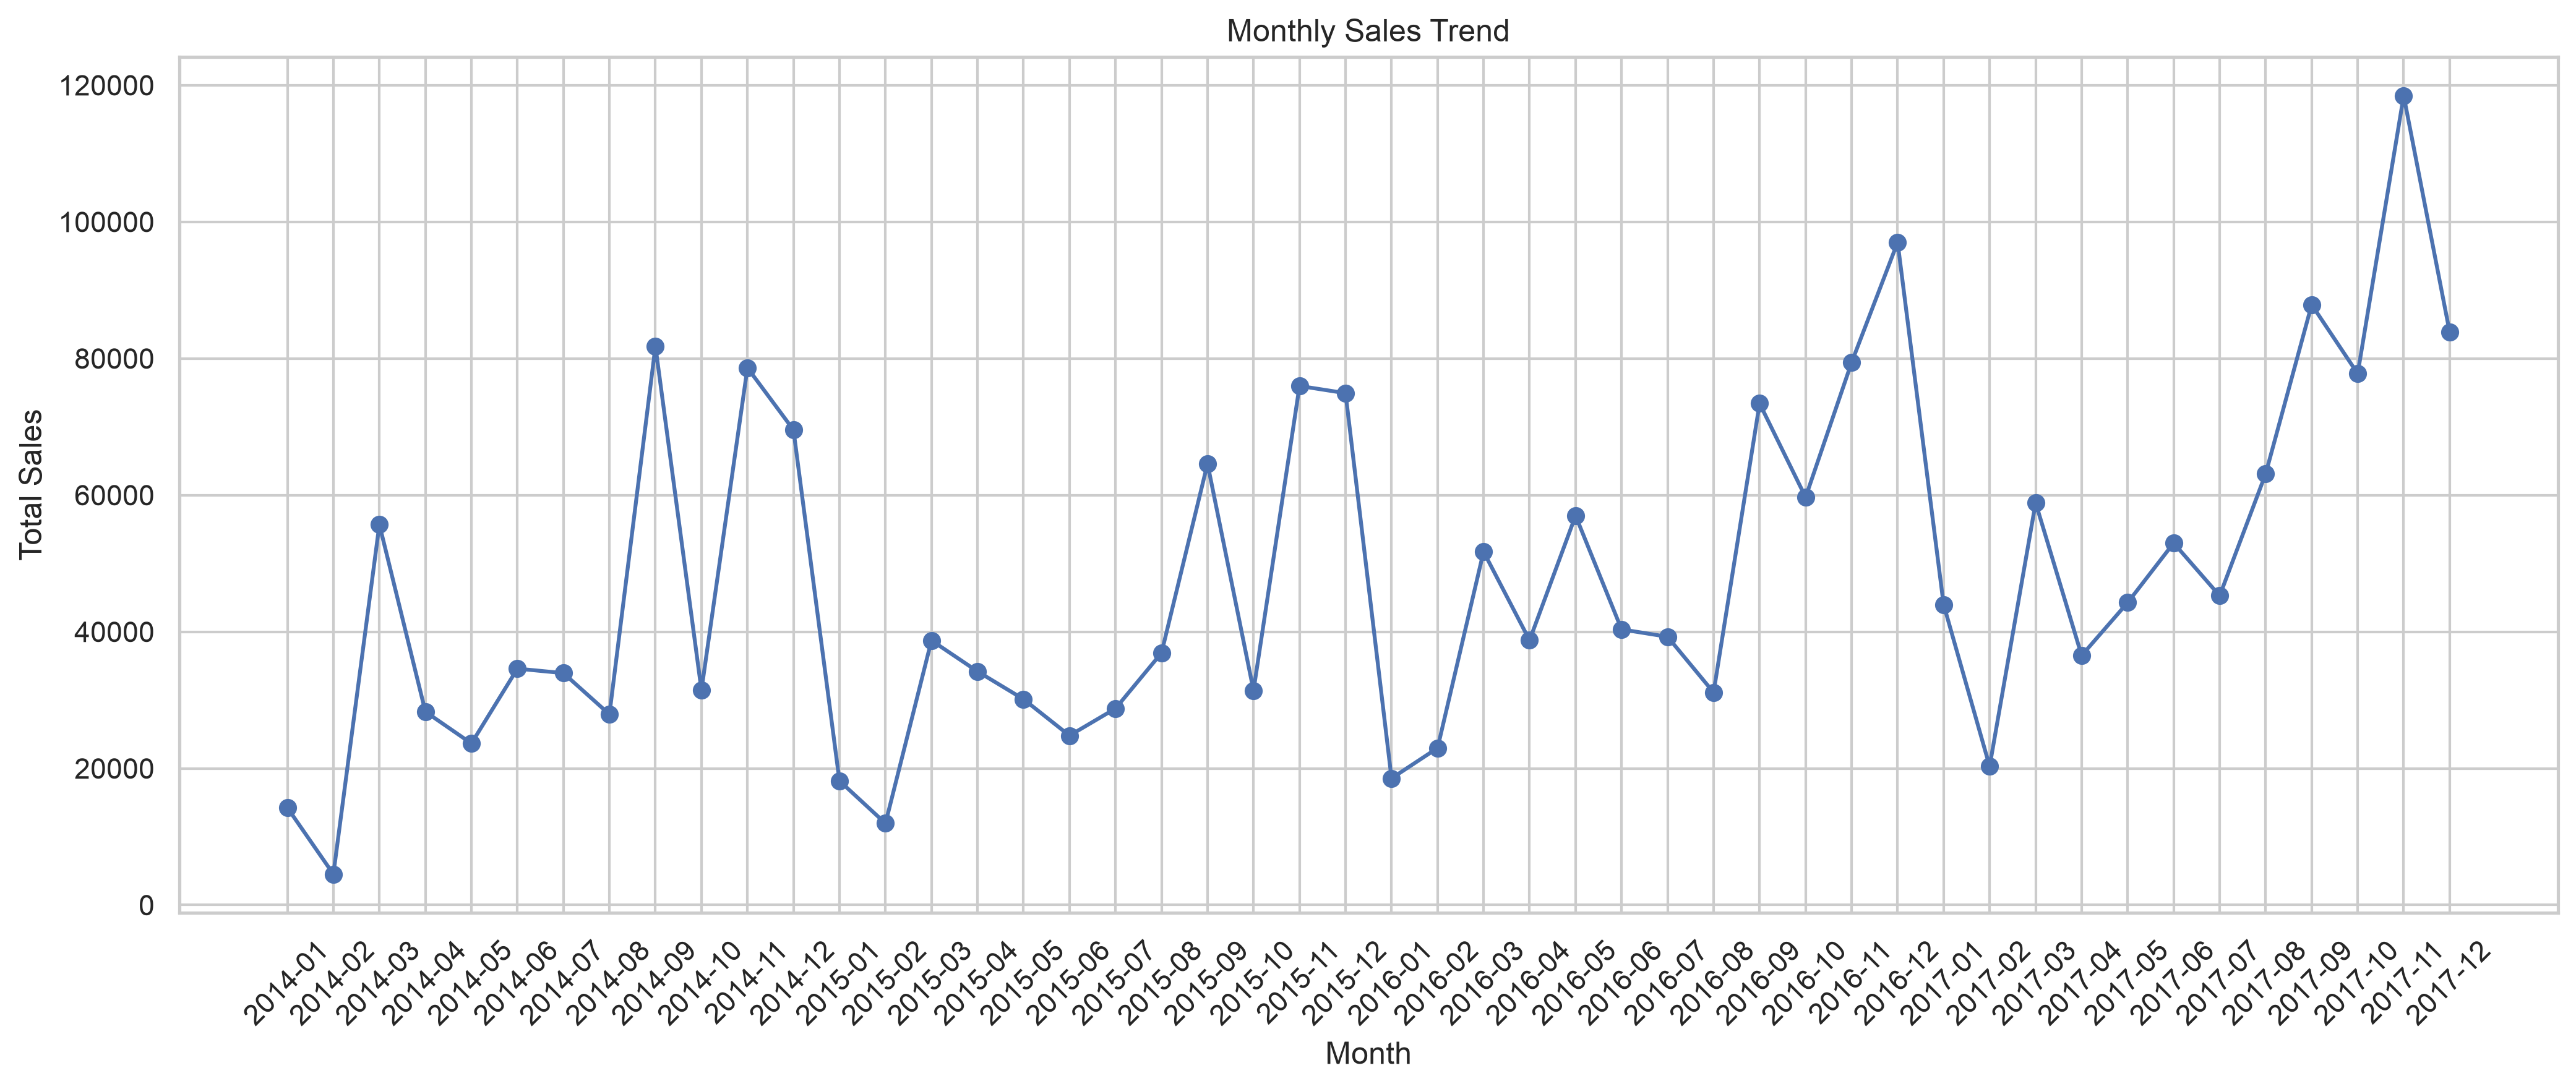
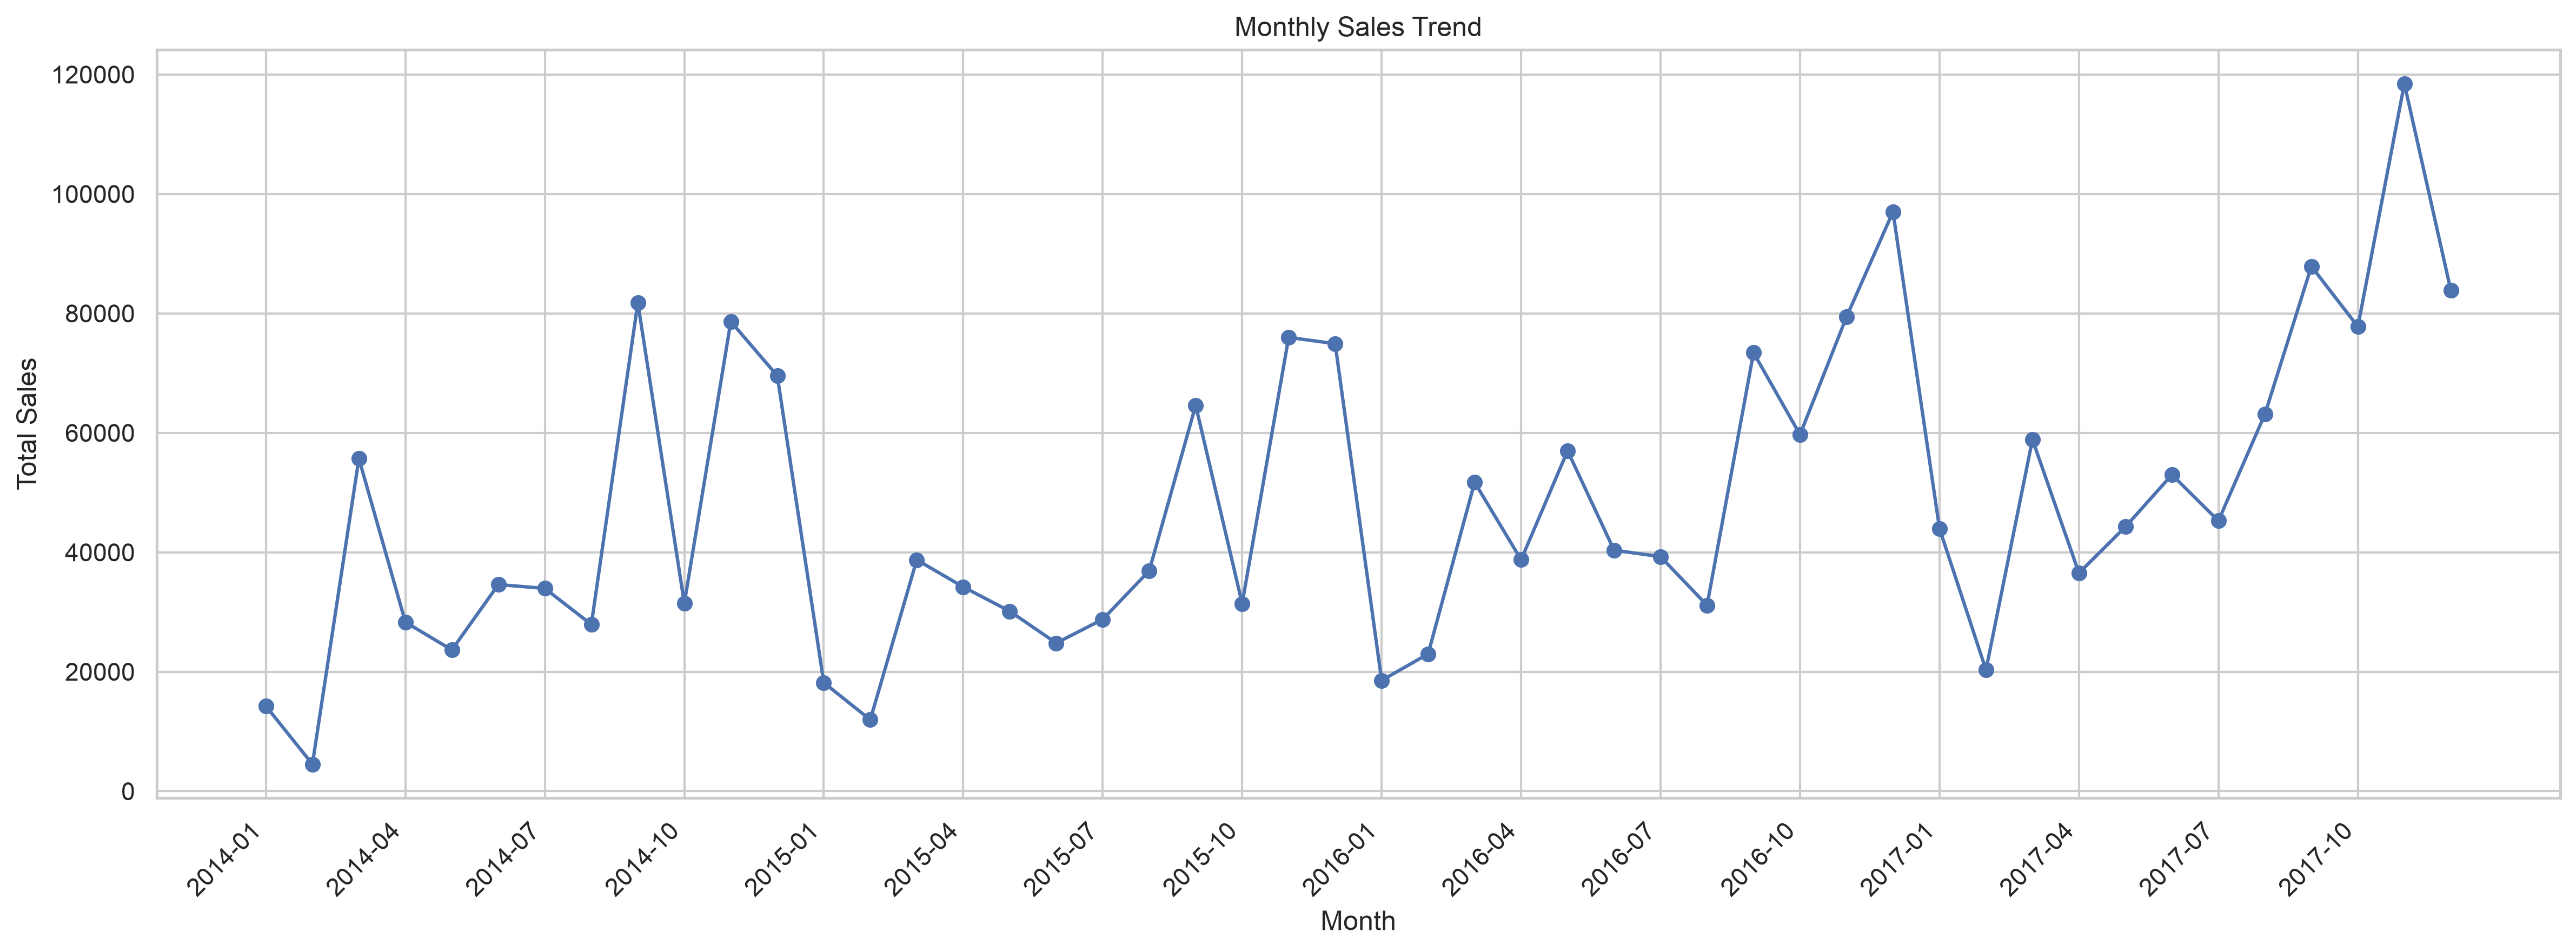
fix docs sync, tambahin missing regional chart, sama bersih bersih repo

diff --git a/README.md b/README.md
@@ -10,12 +10,16 @@ The project was developed as a portfolio project to demonstrate practical data a
 
 - [Project Overview](#project-overview)
 - [Business Questions](#business-questions)
-- [Key Findings](#key-findings)
-- [Project Structure](#project-structure)
+- [Dataset](#dataset)
 - [Analysis Workflow](#analysis-workflow)
-- [Tools & Technologies](#tools-and-technologies)
+- [Key Performance Indicators](#key-performance-indicators)
+- [Key Findings](#key-findings)
+- [Visualizations](#visualizations)
+- [Tools and Technologies](#tools-and-technologies)
+- [Project Structure](#project-structure)
 - [How to Run](#how-to-run)
 - [Limitations](#limitations)
+- [Author](#author)
 
 ## Business Questions
 
@@ -148,7 +152,6 @@ All visualizations are stored in the `visualization/` directory.
 
 - Python
 - Pandas
-- NumPy
 - Matplotlib
 - Seaborn
 - Jupyter Notebook
@@ -161,7 +164,7 @@ All visualizations are stored in the `visualization/` directory.
 ecommerce-sales-analysis/
 │
 ├── data/
-│   ├── superstore.csv
+│   ├── Superstore.csv
 │   └── cleaned_superstore.csv
 │
 ├── notebooks/
@@ -187,7 +190,7 @@ ecommerce-sales-analysis/
 Clone the repository:
 
 ```bash
-git clone YOUR_REPOSITORY_URL
+git clone https://github.com/MinervaVermillion/ecommerce-sales-analysis.git
 cd ecommerce-sales-analysis
 ```
 